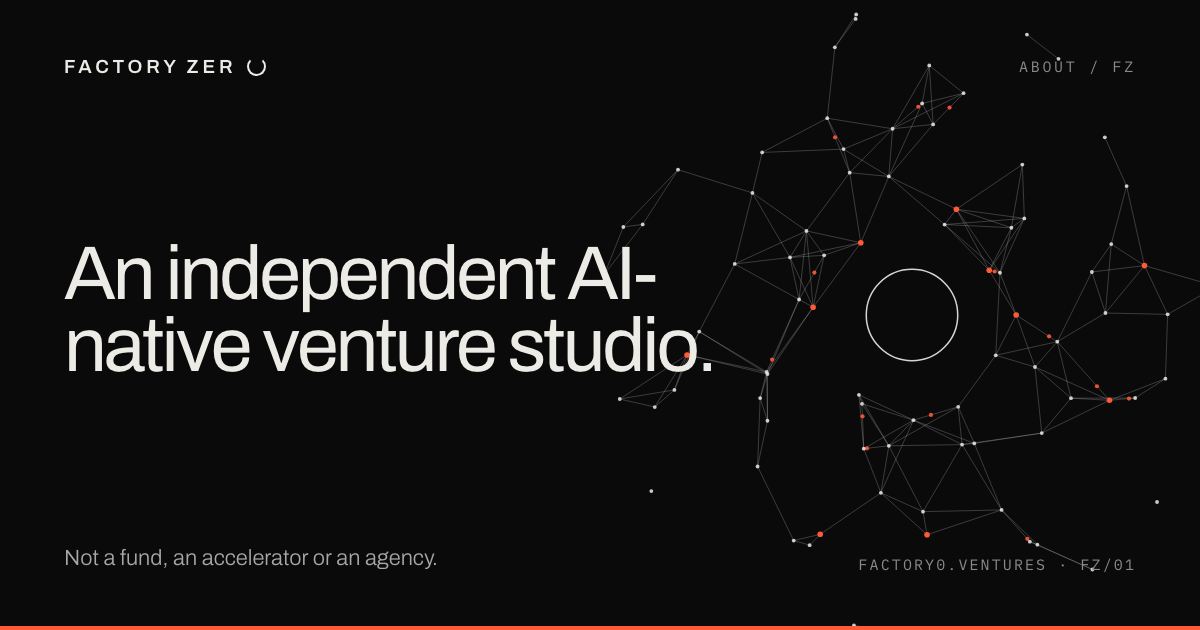
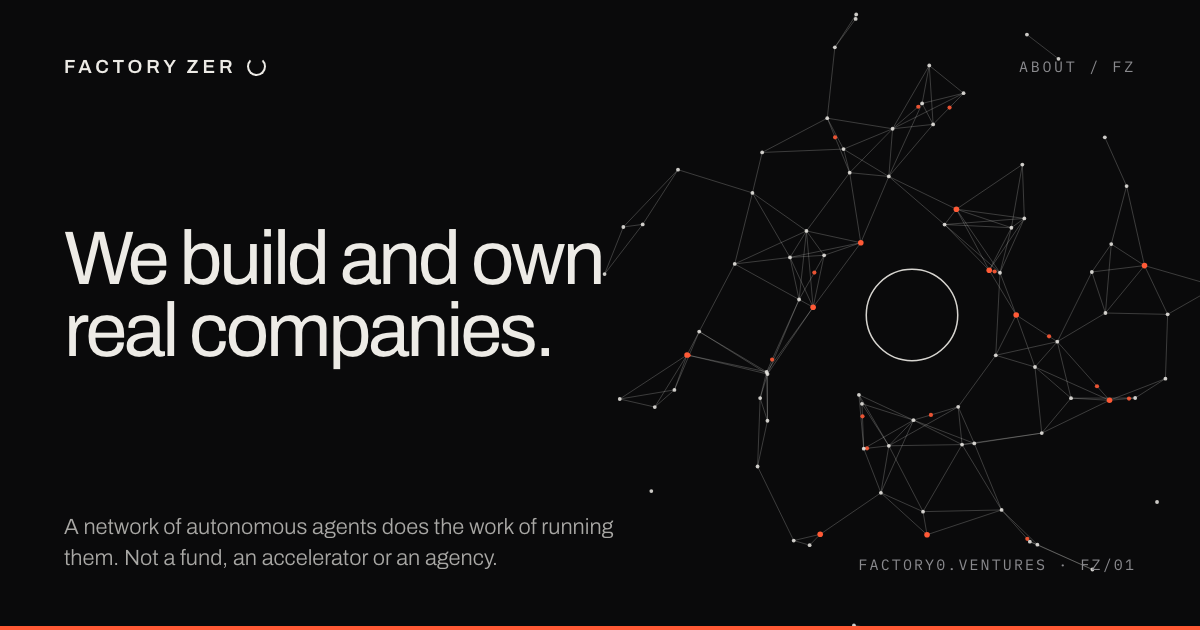
Correct the About positioning and the Bali origin
Two factual corrections.

The About page said Factory Zero builds "products, infrastructure and companies
around autonomous software agents", which makes the agents the subject. The
companies are the subject; the agents are what run them. Rewritten as: we build
and own real companies, and a network of autonomous agents does the work of
running them. Updated in the h1, the meta and OG descriptions, the AboutPage
JSON-LD and the About OG card.

FZ-002 is cut in Bali, not Italy. That claim came from the design source and was
wrong; corrected in the venture description and llms.txt.

Claude-Session: https://claude.ai/code/session_01TEq1DkEQd9eGgGVq2etctD

Changed region(s): [[0.0308, 0.3619, 0.5858, 0.6032], [0.0617, 0.8143, 0.5242, 0.9048]]

diff --git a/about/index.html b/about/index.html
@@ -5,7 +5,7 @@
 <meta name="viewport" content="width=device-width, initial-scale=1">
 
 <title>About · Factory Zero</title>
-<meta name="description" content="Factory Zero is an independent AI-native venture studio building products, infrastructure and companies around autonomous software agents. Not a fund, an accelerator or an agency.">
+<meta name="description" content="Factory Zero is an independent venture studio. We build and own real companies, and autonomous agents do the work of running them. Not a fund, an accelerator or an agency.">
 <link rel="canonical" href="https://factory0.ventures/about/">
 <meta name="robots" content="index, follow, max-image-preview:large, max-snippet:-1">
 <meta name="theme-color" content="#0A0A0B">
@@ -16,7 +16,7 @@
 <meta property="og:locale" content="en_US">
 <meta property="og:url" content="https://factory0.ventures/about/">
 <meta property="og:title" content="About · Factory Zero">
-<meta property="og:description" content="Factory Zero is an independent AI-native venture studio building products, infrastructure and companies around autonomous software agents. Not a fund, an accelerator or an agency.">
+<meta property="og:description" content="Factory Zero is an independent venture studio. We build and own real companies, and autonomous agents do the work of running them. Not a fund, an accelerator or an agency.">
 <meta property="og:image" content="https://factory0.ventures/assets/og-about.png">
 <meta property="og:image:type" content="image/png">
 <meta property="og:image:width" content="1200">
@@ -25,7 +25,7 @@
 
 <meta name="twitter:card" content="summary_large_image">
 <meta name="twitter:title" content="About · Factory Zero">
-<meta name="twitter:description" content="Factory Zero is an independent AI-native venture studio building products, infrastructure and companies around autonomous software agents. Not a fund, an accelerator or an agency.">
+<meta name="twitter:description" content="Factory Zero is an independent venture studio. We build and own real companies, and autonomous agents do the work of running them. Not a fund, an accelerator or an agency.">
 <meta name="twitter:image" content="https://factory0.ventures/assets/og-about.png">
 
 <link rel="icon" href="/assets/favicon.svg" type="image/svg+xml">
@@ -47,7 +47,7 @@
       "@id": "https://factory0.ventures/about/#webpage",
       "url": "https://factory0.ventures/about/",
       "name": "About \u00b7 Factory Zero",
-      "description": "Factory Zero is an independent AI-native venture studio building products, infrastructure and companies around autonomous software agents. Not a fund, an accelerator or an agency.",
+      "description": "Factory Zero is an independent venture studio. We build and own real companies, and autonomous agents do the work of running them. Not a fund, an accelerator or an agency.",
       "isPartOf": {
         "@id": "https://factory0.ventures/#website"
       },
@@ -99,7 +99,7 @@
 <main id="main" class="about">
   <div class="about-lead">
     <p class="eyebrow eyebrow--flush">ABOUT / FZ</p>
-    <h1>Factory Zero is an independent AI-native venture studio building products, infrastructure and companies around autonomous software agents.</h1>
+    <h1>Factory Zero is an independent venture studio. We build and own real companies. A network of autonomous agents does the work of running them.</h1>
   </div>
   <dl class="facts">
     <div><dt>FOUNDED</dt><dd>2026</dd></div>

diff --git a/assets/fz-data.js b/assets/fz-data.js
@@ -7,7 +7,7 @@ window.FZ_DATA = {
     { id: 'FZ-001', name: 'Kontinuum', status: 'BUILDING', stage: 'PROTOTYPE', launched: '—', category: 'MUSIC', autonomy: null, site: '—', logo: 'kontinuum-animated.svg', logoW: 360, logoH: 264,
       desc: 'An AI composer performing on a deterministic real-time engine. Music written and performed continuously, personalised to the listener, and playable offline. Not a streaming app and not a DAW: a living instrument.' },
     { id: 'FZ-002', name: 'Undercover Rockstars', status: 'BUILDING', stage: 'LAUNCH', launched: '—', category: 'APPAREL', autonomy: null, site: '—', logo: 'undercover-rockstars-animated.svg', logoW: 100, logoH: 100,
-      desc: 'A clothing house built on one idea: every piece comes as a matched pair. One pattern is cut twice, once for the day and once for the night, so the fit never changes when the room does. Drop 01 is eight pairs, sixteen garments, cut in Italy.' },
+      desc: 'A clothing house built on one idea: every piece comes as a matched pair. One pattern is cut twice, once for the day and once for the night, so the fit never changes when the room does. Drop 01 is eight pairs, sixteen garments, cut in Bali.' },
     { id: 'FZ-003', name: 'Unannounced', status: 'UNANNOUNCED', stage: '—', launched: '—', category: '—', autonomy: null, site: '—',
       desc: 'Not yet announced.' }
   ],

diff --git a/ventures/index.html b/ventures/index.html
@@ -125,7 +125,7 @@
         data-id="FZ-002" data-name="Undercover Rockstars" data-status="BUILDING" data-status-color="#A9A8A5"
         data-category="APPAREL" data-autonomy=""
         data-launched="—" data-stage="LAUNCH" data-site="—"
-        data-logo="undercover-rockstars-animated.svg" data-logo-w="100" data-logo-h="100" data-desc="A clothing house built on one idea: every piece comes as a matched pair. One pattern is cut twice, once for the day and once for the night, so the fit never changes when the room does. Drop 01 is eight pairs, sixteen garments, cut in Italy.">
+        data-logo="undercover-rockstars-animated.svg" data-logo-w="100" data-logo-h="100" data-desc="A clothing house built on one idea: every piece comes as a matched pair. One pattern is cut twice, once for the day and once for the night, so the fit never changes when the room does. Drop 01 is eight pairs, sixteen garments, cut in Bali.">
         <span class="rid">FZ-002</span>
         <span class="name"><img class="venture-logo" src="/assets/undercover-rockstars-animated.svg" alt="" width="30" height="30">Undercover Rockstars</span>
         <span class="status" style="color:#A9A8A5"><span class="dot"></span>BUILDING</span>
